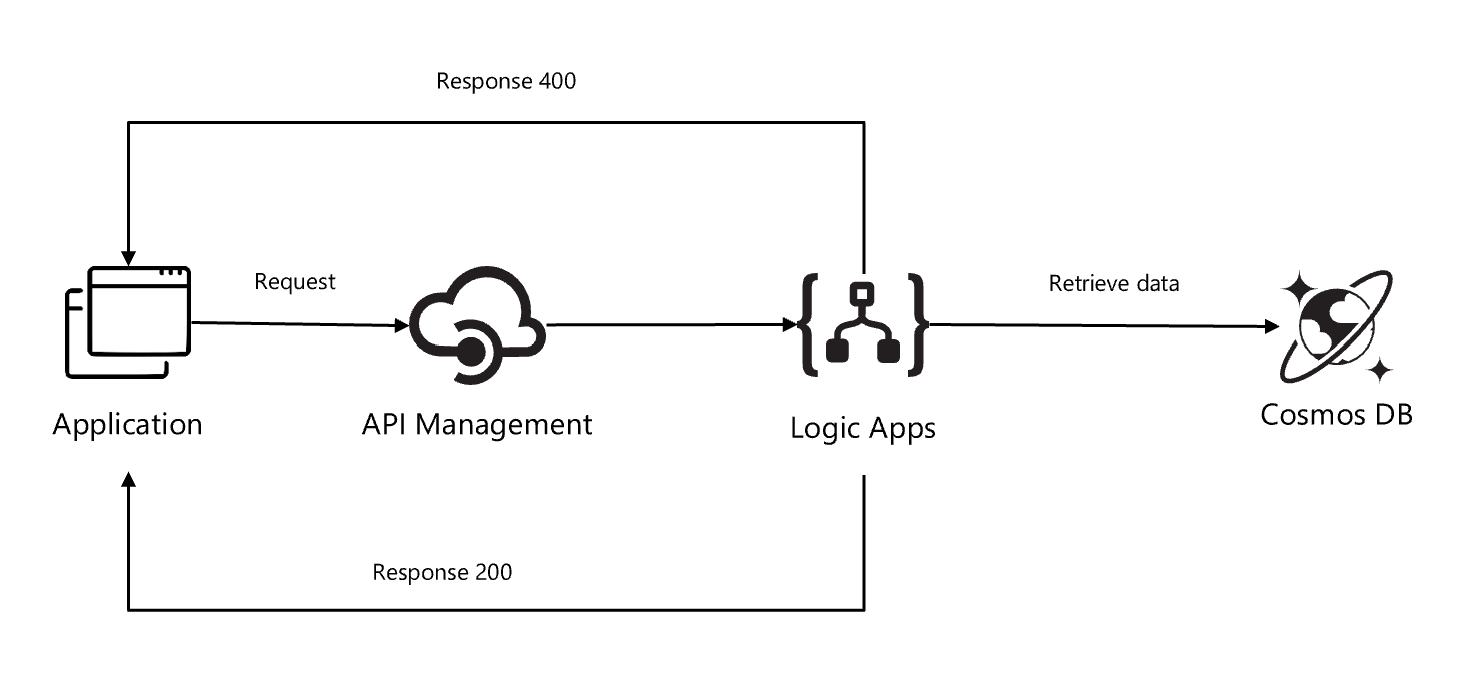
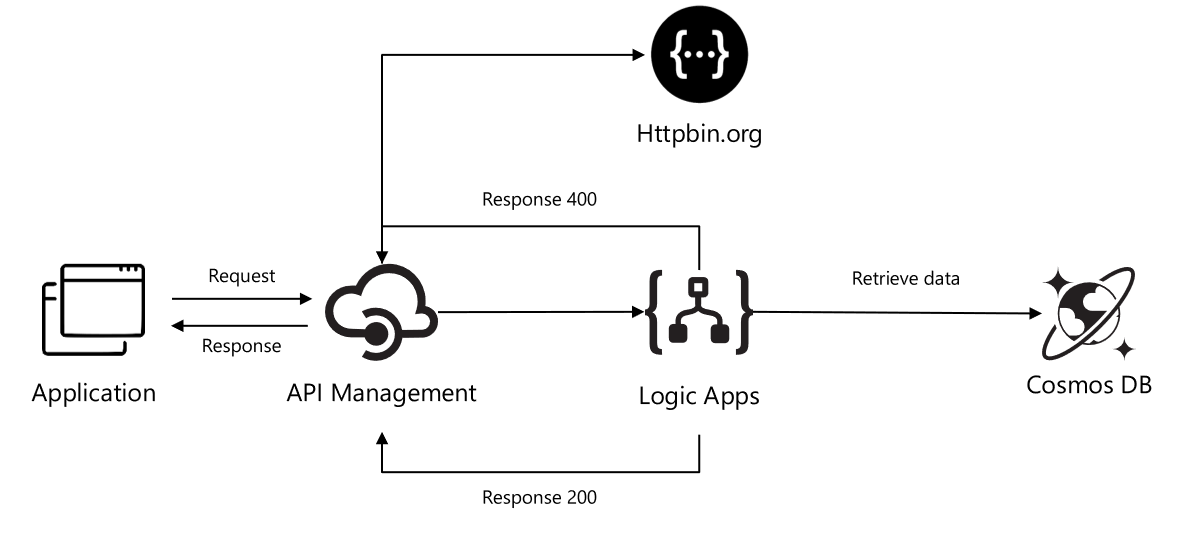
Update DevOps Project - Pipelines

diff --git a/README.md b/README.md
@@ -21,9 +21,11 @@ This architecture focusses on retrrieving data from a Cosmos DB and returning th
 
 In this case I've used Cosmos DB to get the messages from, but this can be replace with any backend application / database.
 
+Next to the asynchronous api, I've added httpbin as well.
+
 In DevOps with the build pipeline all shared resources are deployed. The release pipeline deploys the specific services needed for this pattern. In this way are able to deploy, by cloning, multiple sync pattern, using the same shared components for cost optimalization.
 
-In this DevOps project I've made it possible to deploy to 3 environments by choice. So, you can deploy to a dev, staging and production enviroment in the DevOps project. There are 3 build pipelines which wil provide the deployment of completely seperate enviroments. All shared components are deployed in the build pipelines. In the release pipeline we will do a staged deployment of each environment, with a approval in between. This way you can choose if you want to deploy duplicate environments or not.
+In this DevOps project we'll deploy to 3 environments. So, you can deploy to a dev, staging and production enviroment in the DevOps project. The build pipeline will create and provision all environments in one go. All shared components per environment are deployed in the build pipelines. In the release pipeline we will do a staged deployment of each environment, with a approval in between. This way you can choose if you want to deploy duplicate environments or not.
 ![ais-sync-pattern](docs/images/devops.png)
 
 ## Step by Step installation
@@ -31,7 +33,7 @@ In this DevOps project I've made it possible to deploy to 3 environments by choi
 ### Before we hit it off
 This integration returns data from Cosmos DB. This database is not pre-populated. You can implement the asynchronous pattern first, to get data in via the API (https://github.com/pascalvanderheiden/ais-async-pattern). Or you can just add data manually via the Data Explorer in the Azure Portal. There is a sample json included in this repository.
 
-Another important note: if you've already implemeted the asynchronous pattern (https://github.com/pascalvanderheiden/ais-async-pattern), this tutorial will be complementary to that setup.
+Another important note: if you've already implemented the asynchronous pattern (https://github.com/pascalvanderheiden/ais-async-pattern), this tutorial will be complementary to that setup.
 
 ### Step 1: In the Azure Portal create a Service Principal
 In the Azure Cloud Shell (https://shell.azure.com): 
@@ -62,18 +64,17 @@ You can find the documentation on the Azure DevOps Generator here: https://vstsd
 - Tick "Allow access to all pipelines.
 - Update the values of the variables to match your naming conventions needs. I've put in some generic naming, but you need to update the variables. Otherwise, the creation of some services will fail, because they've been already used.
 - The variable "KVCOSMOSDBLABEL" is used as a label for Key Vault to retrieve the connection string and key for API Connections. Leave that as it is: "aissharedcosmosdb"
-- Do the same for the "Environments" Variable group.
+- Do the same for the "Environments" Variable group. Keep in min that these values are used as a prefix for all environment related shared components. So, in this DevOps project I choose one dev, one staging and one production (where I leave the prefix blank). If you don't want 3 environments but only 1, just give them all the same prefix (blank for example). 
 - Don't forget to save.
 
 ### Step 5: In Azure DevOps, update the Build pipeline and Run it.
 - Go to Pipelines, Pipelines.
-- Select "Build AIS shared resources-env1-CI", Edit.
+- Select "Build AIS shared resources-CI", Edit.
 - In Tasks, select the Tasks which have the explaination mark "Some settings need attention", and update Azure Subscription to your Service Principal Connection.
 - In Variables, update the variables to match your naming conventions needs. Keep in mind to pick unique naming for exposed services. I've put in some generic naming, but you need to update the variables. Otherwise, the creation of some services will fail, because they've been already used.
-- Repeat this for "Build AIS shared resources-env2-CI" and "Build AIS shared resources-env3-CI".
 - Save & queue.
-- Click the Agent Job to check the progress. Check if everything is create correctly, because of the unique naming for some services. And because it's fun :-)
-- Keep in mind that the CLI scripts will check if the resource is already created, before creating. I've used an ARM Template for the deployment of the Application Insights, because I wanted to automatically integrate it with the API Management Instance I've just created. This is not yet supported in AZ CLI.
+- Click the Agent Job to check the progress. Check if everything is created correctly, because of the unique naming for some services.
+- Keep in mind that the CLI scripts will check if the resource is already created, before creating. I've used an ARM Template for the deployment of the Application Insights, because I wanted to automatically integrate it with the API Management Instance I've just created. This is not yet supported in AZ CLI at the moment of writing this blog.
 
 ### Step 6: In Azure DevOps, add the Key Vault secret to the variables.
 - Go to Pipelines, Library. Add Variable group. Give it a name, something like "Key Vault Secrets Environment 1".
